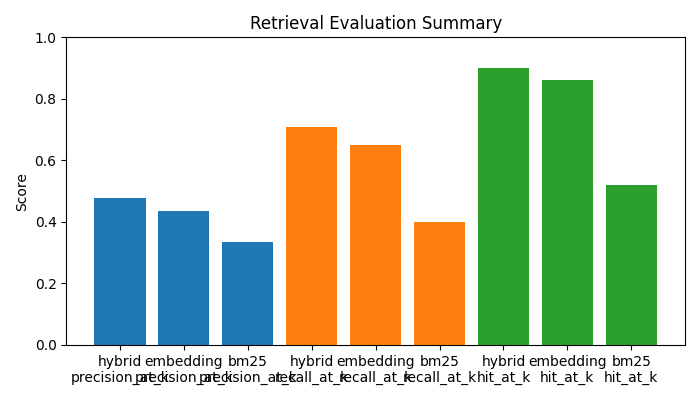
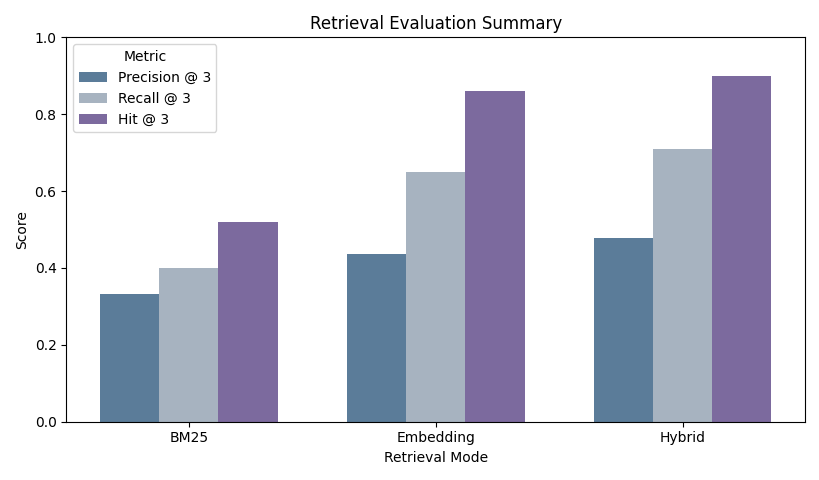
Polish evaluation plots and deployment-ready docs

diff --git a/src/evaluation/run_retrieval_eval.py b/src/evaluation/run_retrieval_eval.py
@@ -20,6 +20,20 @@ import matplotlib.pyplot as plt
 from src.retrieval.hybrid import HybridRetriever
 
 
+MODE_LABELS = {
+    "bm25": "BM25",
+    "embedding": "Embedding",
+    "hybrid": "Hybrid",
+    "bm25_reranked": "BM25 + Heuristics",
+}
+
+METRIC_COLORS = {
+    "precision_at_k": "#5B7C99",
+    "recall_at_k": "#A7B3C0",
+    "hit_at_k": "#7C6A9E",
+}
+
+
 def load_eval_questions(base_dir: str | Path = ".") -> list[dict]:
     eval_path = Path(base_dir) / "data" / "eval" / "eval_questions.csv"
     with eval_path.open(encoding="utf-8") as handle:
@@ -180,17 +194,44 @@ def save_outputs(
     )
     failure_df.to_csv(failure_path, index=False)
 
-    metric_df = summary_df.melt(id_vars="retrieval_mode", var_name="metric", value_name="value")
-    plt.figure(figsize=(7, 4))
-    for metric in ["precision_at_k", "recall_at_k", "hit_at_k"]:
-        subset = metric_df[metric_df["metric"] == metric]
+    plot_df = summary_df.copy()
+    plot_df["retrieval_mode"] = plot_df["retrieval_mode"].map(lambda mode: MODE_LABELS.get(mode, mode.replace("_", " ").title()))
+    plot_df["mode_order"] = plot_df["retrieval_mode"].map(
+        {
+            "BM25": 0,
+            "Embedding": 1,
+            "Hybrid": 2,
+            "BM25 + Heuristics": 3,
+        }
+    )
+    plot_df = plot_df.sort_values("mode_order")
+
+    metrics = ["precision_at_k", "recall_at_k", "hit_at_k"]
+    top_k_value = int(detail_df["top_k"].iloc[0]) if not detail_df.empty else 5
+    metric_labels = {
+        "precision_at_k": f"Precision @ {top_k_value}",
+        "recall_at_k": f"Recall @ {top_k_value}",
+        "hit_at_k": f"Hit @ {top_k_value}",
+    }
+    x_positions = range(len(plot_df))
+    bar_width = 0.24
+
+    plt.figure(figsize=(8.2, 4.8))
+    for index, metric in enumerate(metrics):
+        offsets = [x + (index - 1) * bar_width for x in x_positions]
         plt.bar(
-            [f"{row['retrieval_mode']}\n{metric}" for _, row in subset.iterrows()],
-            subset["value"],
+            offsets,
+            plot_df[metric],
+            width=bar_width,
+            label=metric_labels[metric],
+            color=METRIC_COLORS[metric],
         )
     plt.ylim(0, 1)
+    plt.xticks(list(x_positions), plot_df["retrieval_mode"])
     plt.ylabel("Score")
+    plt.xlabel("Retrieval Mode")
     plt.title("Retrieval Evaluation Summary")
+    plt.legend(title="Metric")
     plt.tight_layout()
     plt.savefig(plot_path)
     plt.close()
